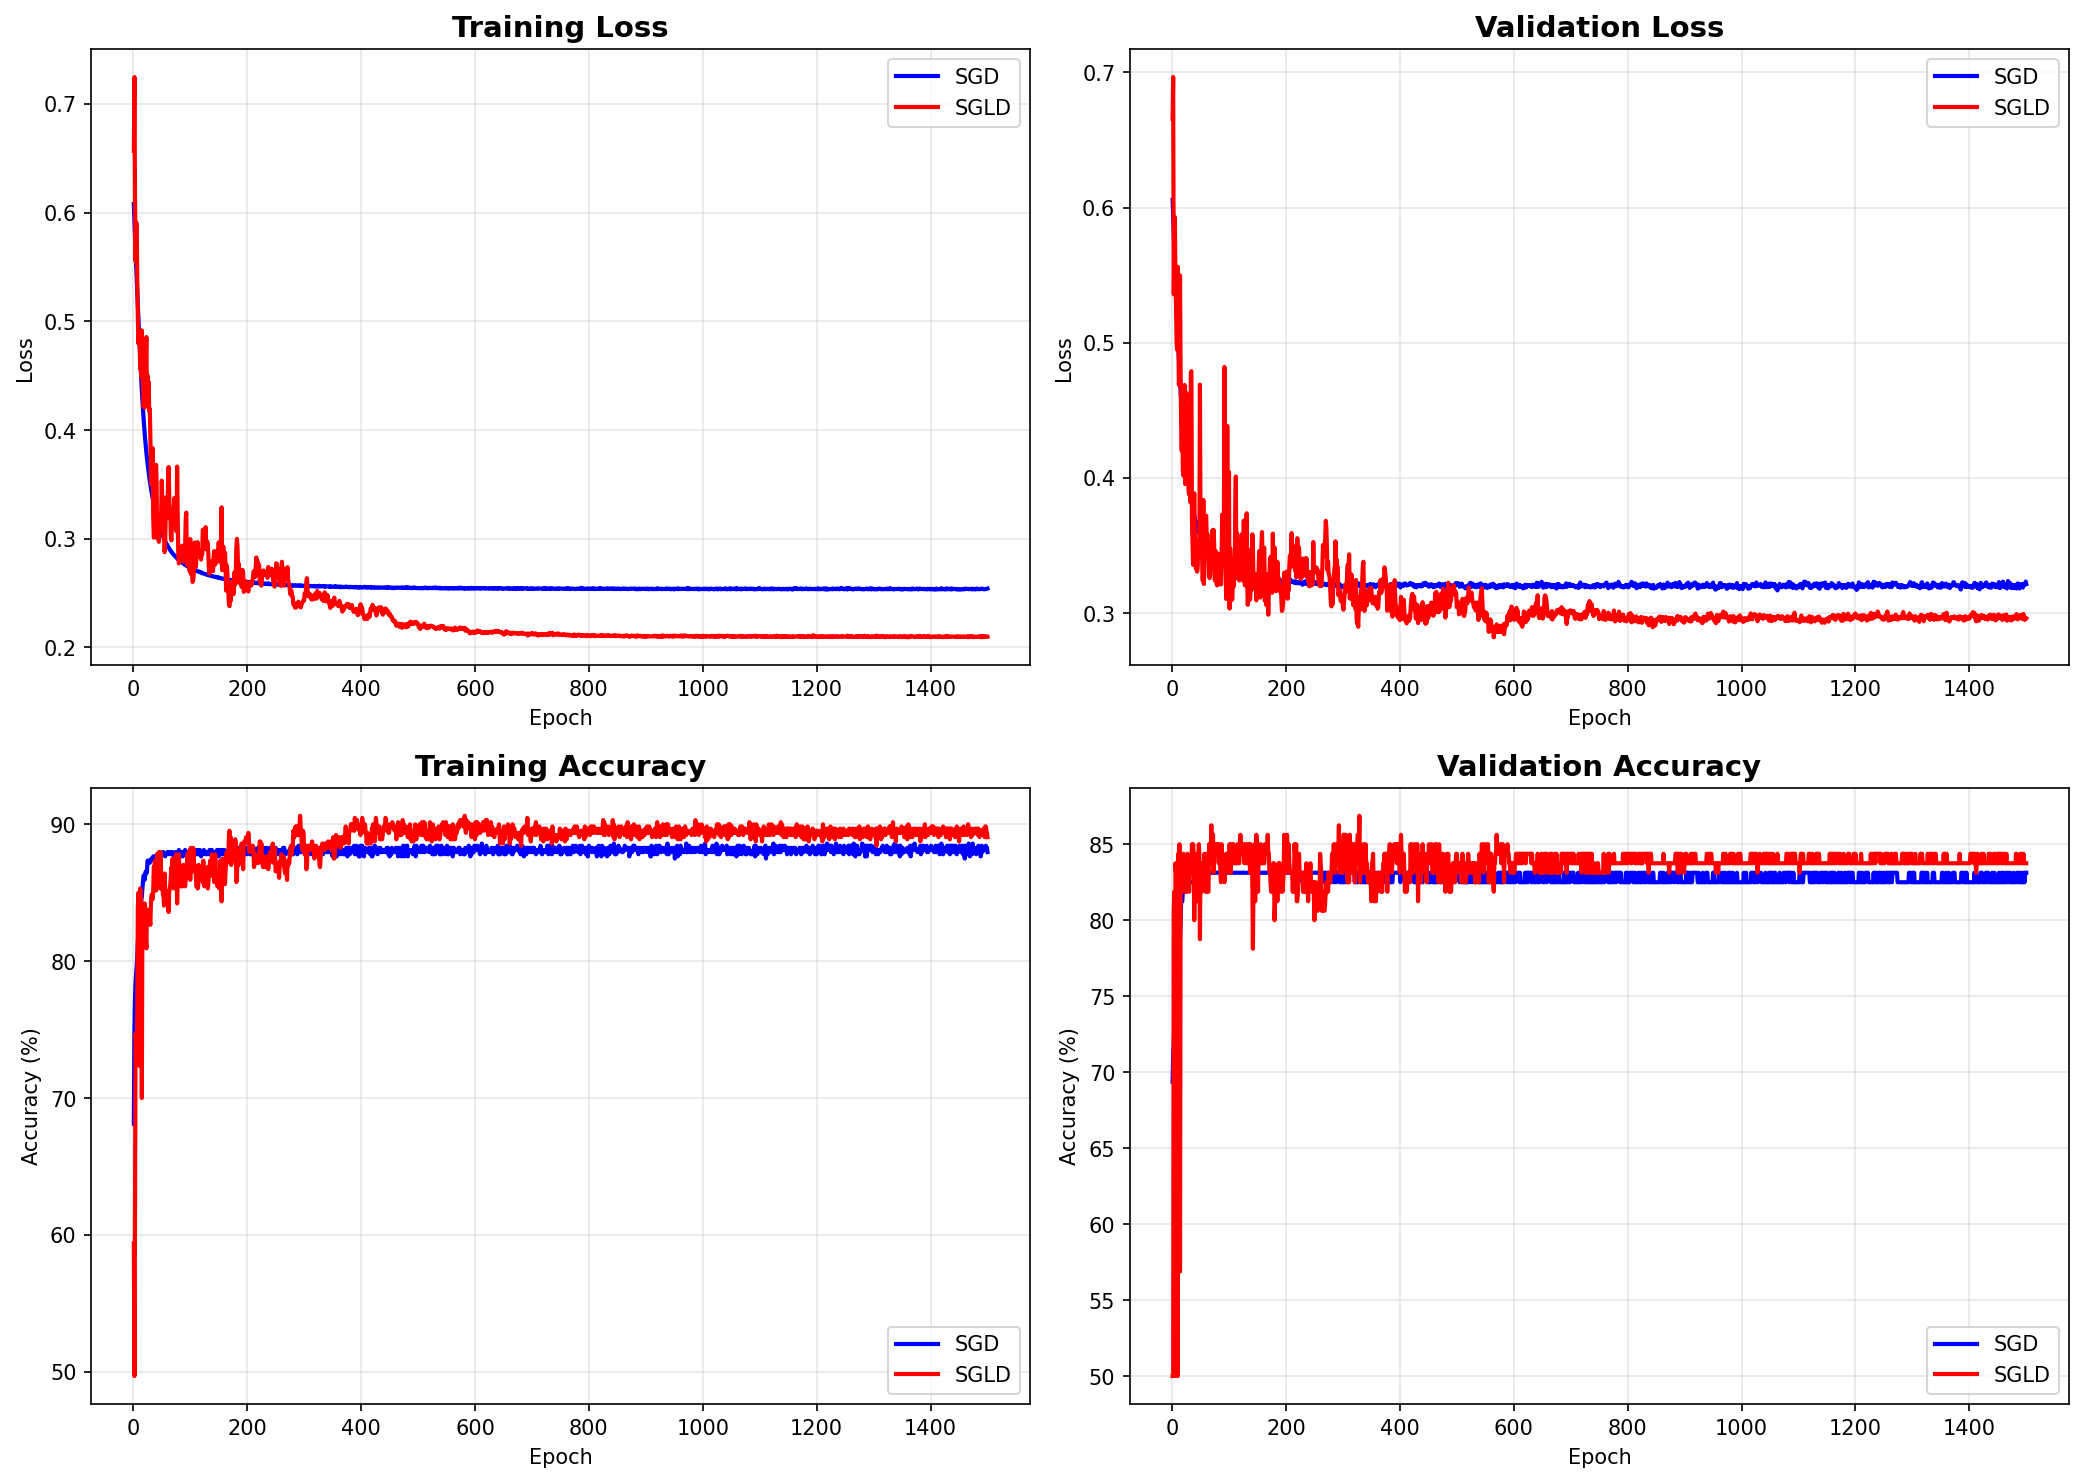
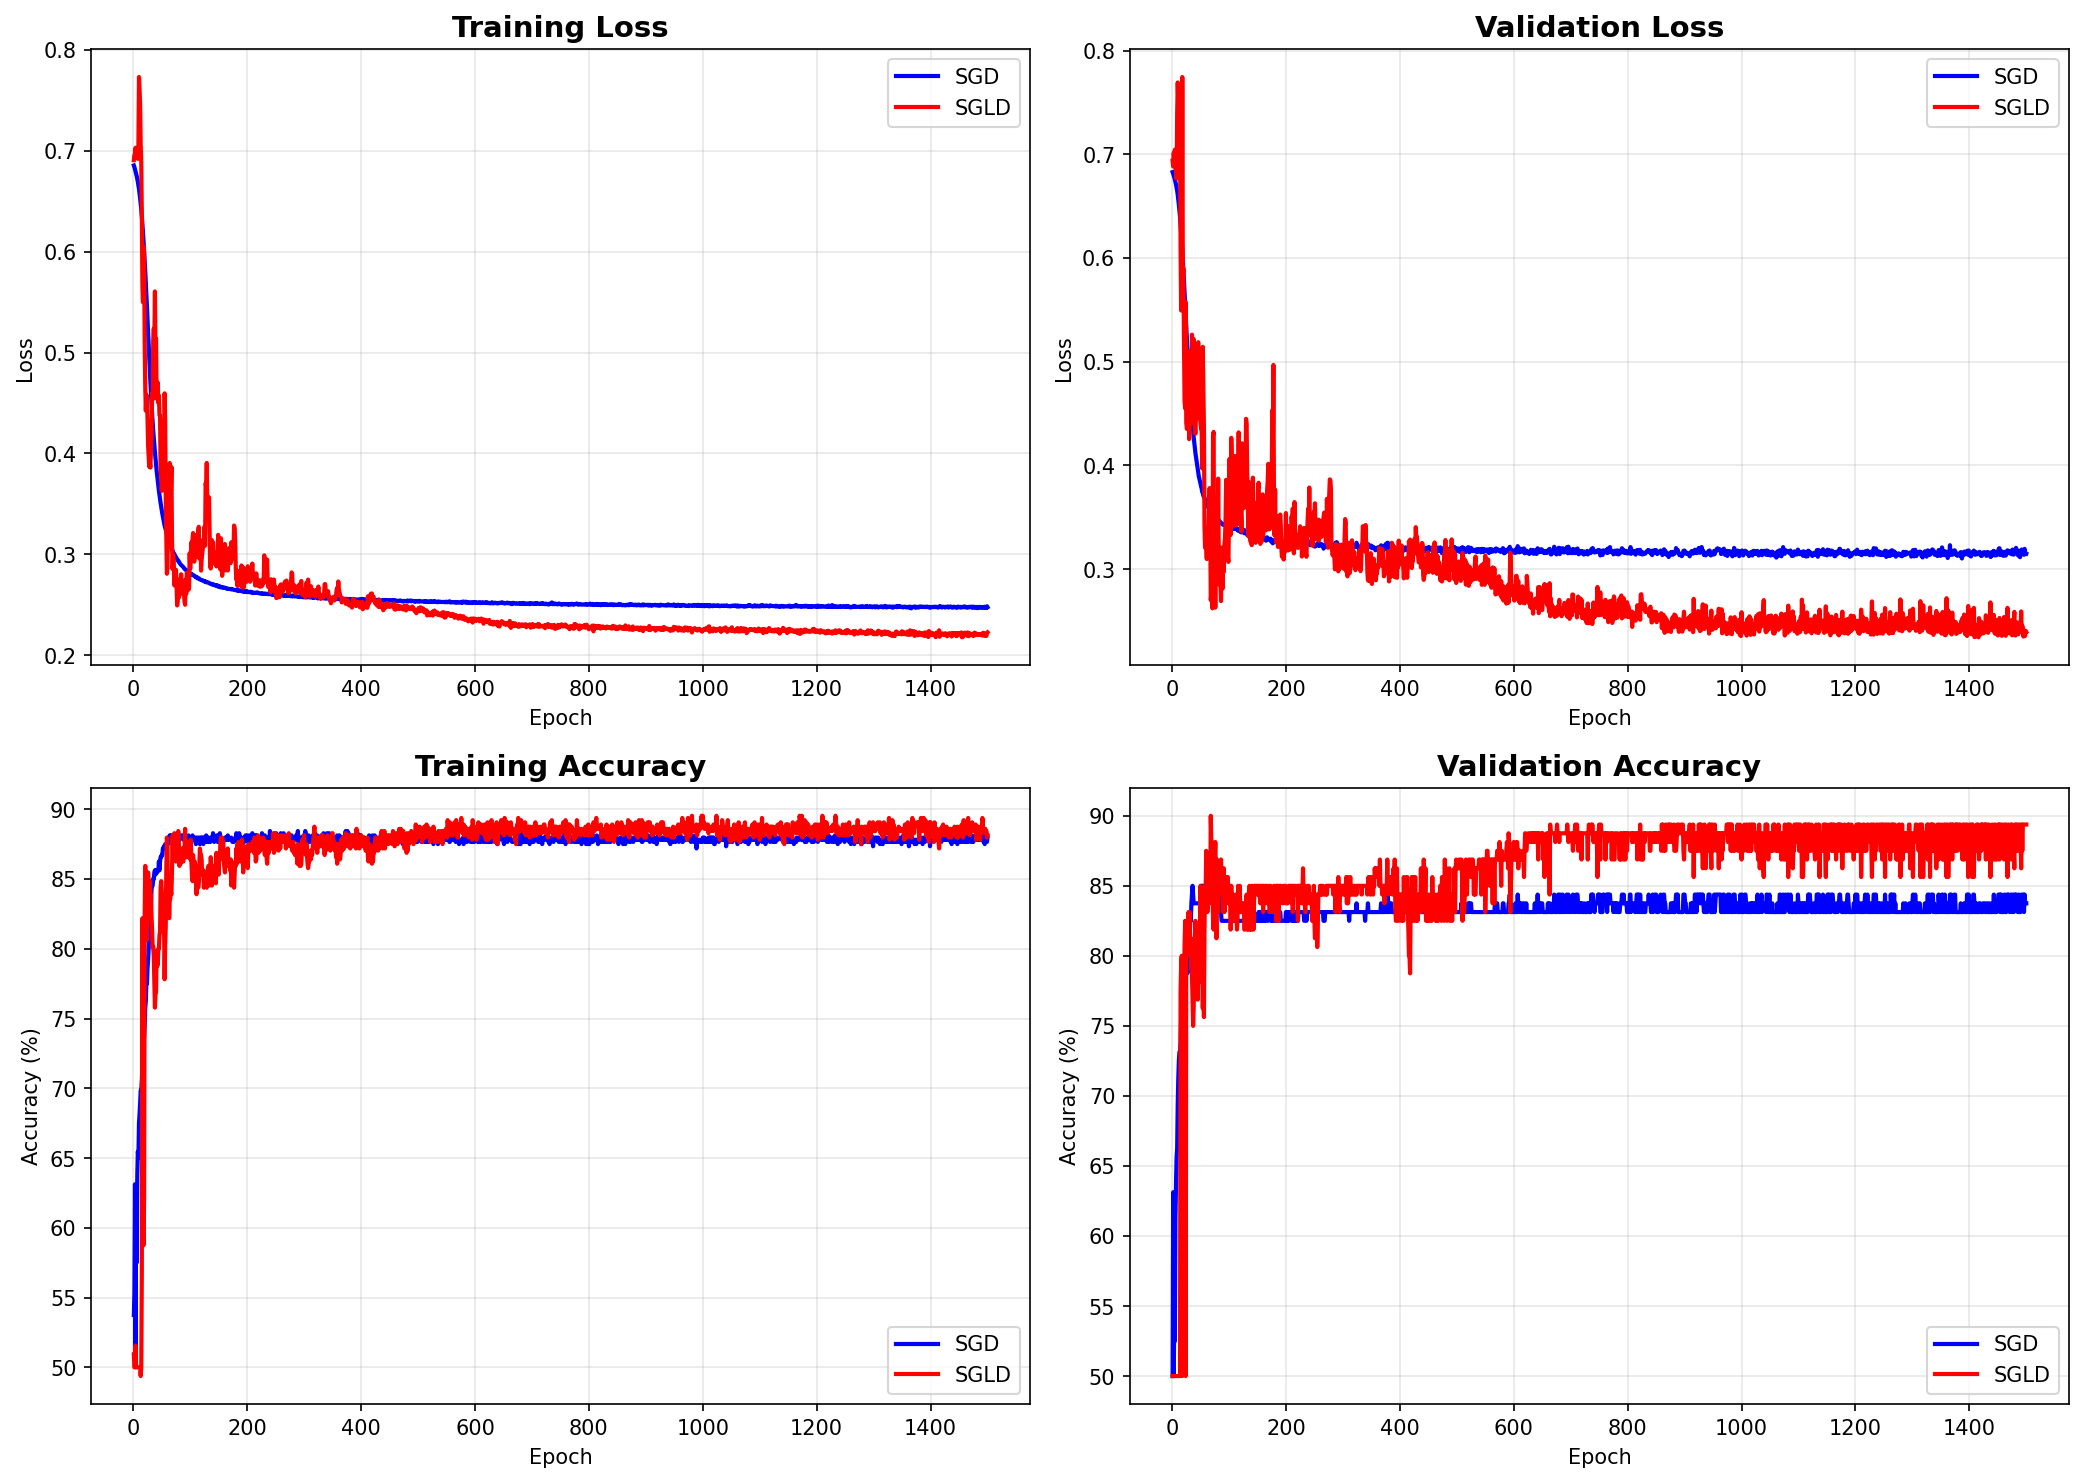
Improved experiment

diff --git a/submission/exp_2/sgld.py b/submission/exp_2/sgld.py
@@ -36,10 +36,12 @@ class SGLD(Optimizer):
         temperature (float, optional): temperature parameter controlling noise level (default: 1.0)
         momentum (float, optional): momentum factor (0 = no momentum) (default: 0.0)
         weight_decay (float, optional): weight decay (L2 penalty) (default: 0.0)
-        noise_decay (float, optional): decay factor for noise over time (default: 1.0)
+        temperature_decay (float, optional): decay factor for temperature over time (default: 1.0)
         
     Note:
-        - For convergence to the true posterior, use appropriate constant step size
+        - This implementation uses a constant learning rate and a decaying temperature
+          (annealing), which transitions the optimizer from an exploration phase to a
+          posterior sampling phase.
         - Set temperature=0 to recover standard SGD behavior
     """
     
@@ -49,7 +51,7 @@ class SGLD(Optimizer):
                  temperature: float = 1.0,
                  momentum: float = 0.0,
                  weight_decay: float = 0.0,
-                 noise_decay: float = 1.0):
+                 temperature_decay: float = 1.0):
         
         if not 0.0 <= lr:
             raise ValueError(f"Invalid learning rate: {lr}")
@@ -59,15 +61,15 @@ class SGLD(Optimizer):
             raise ValueError(f"Invalid momentum value: {momentum}")
         if not 0.0 <= weight_decay:
             raise ValueError(f"Invalid weight_decay value: {weight_decay}")
-        if not 0.0 <= noise_decay <= 1.0:
-            raise ValueError(f"Invalid noise_decay value: {noise_decay}")
+        if not 0.0 <= temperature_decay <= 1.0:
+            raise ValueError(f"Invalid temperature_decay value: {temperature_decay}")
 
         defaults = dict(
             lr=lr, 
             temperature=temperature,
             momentum=momentum,
             weight_decay=weight_decay,
-            noise_decay=noise_decay
+            temperature_decay=temperature_decay
         )
         super(SGLD, self).__init__(params, defaults)
         
@@ -99,11 +101,11 @@ class SGLD(Optimizer):
             weight_decay = group['weight_decay']
             momentum = group['momentum']
             temperature = group['temperature']
-            noise_decay = group['noise_decay']
+            temperature_decay = group['temperature_decay']
             current_lr = group['lr']  # Use constant learning rate
             
-            # Apply noise decay over time
-            current_temperature = temperature * (noise_decay ** global_step)
+            # Apply temperature decay over time
+            current_temperature = temperature * (temperature_decay ** global_step)
 
             for p in group['params']:
                 if p.grad is None:
@@ -111,7 +113,7 @@ class SGLD(Optimizer):
                     
                 grad = p.grad
                 
-                # Apply weight decay
+                # Apply weight decay (modifies gradient in-place)
                 if weight_decay != 0:
                     grad = grad.add(p, alpha=weight_decay)
 

diff --git a/submission/exp_2/experiment.py b/submission/exp_2/experiment.py
@@ -250,7 +250,7 @@ def run_experiment():
     NUM_EPOCHS = 1500  # Extended training for clear differences
     LR = 0.01  # Higher LR works well for small networks
     TEMPERATURE = 0.05  # Moderate initial temperature
-    NOISE_DECAY = 0.9996  # Much slower decay to maintain exploration
+    TEMPERATURE_DECAY = 0.9996  # Much slower decay to maintain exploration
     DEVICE = torch.device('cpu')
     
     print(f"Device: {DEVICE}")
@@ -258,7 +258,7 @@ def run_experiment():
     print(f"Epochs: {NUM_EPOCHS}")
     print(f"Learning rate: {LR}")
     print(f"SGLD Temperature: {TEMPERATURE}")
-    print(f"SGLD Noise Decay: {NOISE_DECAY}")
+    print(f"SGLD Temperature Decay: {TEMPERATURE_DECAY}")
     print()
     
     # Load data
@@ -287,7 +287,7 @@ def run_experiment():
         model_sgld.parameters(), 
         lr=LR, 
         temperature=TEMPERATURE,
-        noise_decay=NOISE_DECAY
+        temperature_decay=TEMPERATURE_DECAY
     )
     
     sgld_history, sgld_time, sgld_models = train_model(
@@ -467,7 +467,7 @@ def run_single_experiment_quiet():
     NUM_EPOCHS = 1500
     LR = 0.01
     TEMPERATURE = 0.01
-    NOISE_DECAY = 0.9996
+    TEMPERATURE_DECAY = 0.9996
     DEVICE = torch.device('cpu')
     
     # Load data
@@ -494,7 +494,7 @@ def run_single_experiment_quiet():
         model_sgld.parameters(), 
         lr=LR, 
         temperature=TEMPERATURE,
-        noise_decay=NOISE_DECAY
+        temperature_decay=TEMPERATURE_DECAY
     )
     
     sgld_history, sgld_time, sgld_models = train_model_quiet(

diff --git a/submission/exp_2/model.py b/submission/exp_2/model.py
@@ -17,6 +17,8 @@ class SimpleMLP(nn.Module):
             nn.ReLU(),
             nn.Linear(hidden_size, hidden_size),
             nn.ReLU(),
+            nn.Linear(hidden_size, hidden_size),
+            nn.ReLU(),
             nn.Linear(hidden_size, num_classes)
         )
         
